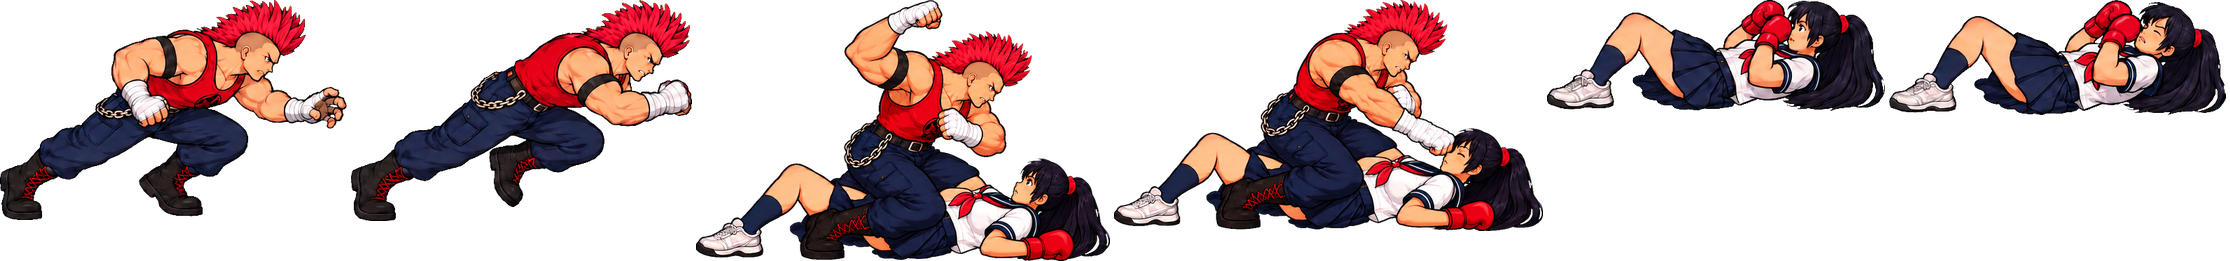
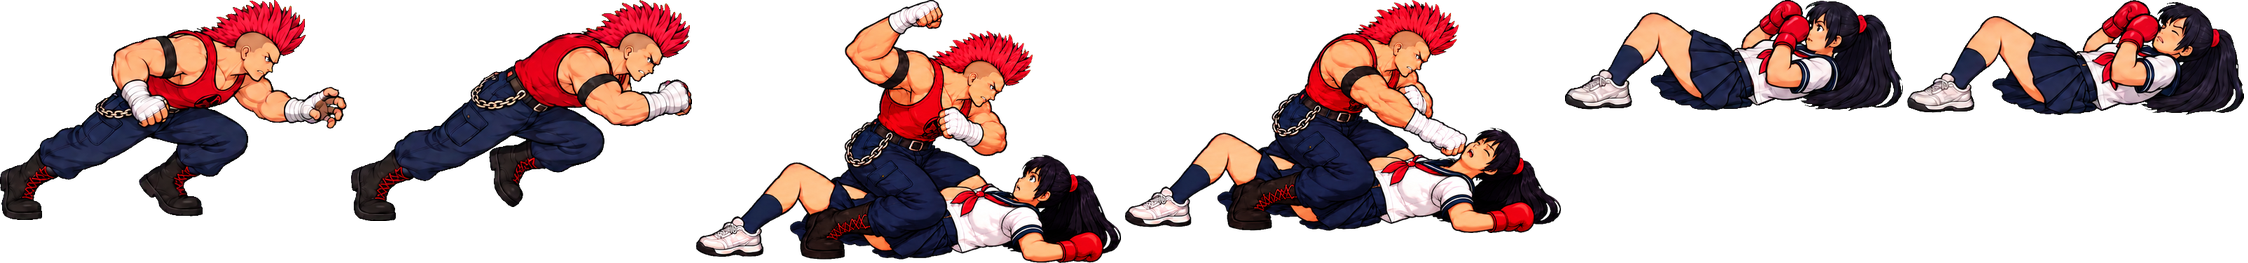
fix: mounted hand pose and frightened head recoil

diff --git a/assets/characters/mount_v1.js b/assets/characters/mount_v1.js
@@ -1,1 +1,1 @@
-window.SPR_MOUNT={"frames": [{"x": 0, "y": 0, "w": 347, "h": 220, "ax": 173.41, "ay": 220, "sourceBounds": [35, 186, 530, 500], "paletteWidth": 347}, {"x": 351, "y": 0, "w": 341, "h": 221, "ax": 170.61, "ay": 221, "sourceBounds": [519, 184, 1006, 500], "paletteWidth": 341}, {"x": 696, "y": 0, "w": 414, "h": 261, "ax": 223.6, "ay": 261, "sourceBounds": [49, 41, 1039, 664], "paletteWidth": 253}, {"x": 1114, "y": 0, "w": 429, "h": 231, "ax": 231.55, "ay": 231, "sourceBounds": [1100, 116, 2125, 668], "paletteWidth": 262}, {"x": 1547, "y": 0, "w": 338, "h": 111, "ax": 169.2, "ay": 111, "sourceBounds": [541, 763, 1024, 921], "paletteWidth": 0}, {"x": 1889, "y": 0, "w": 337, "h": 115, "ax": 168.5, "ay": 115, "sourceBounds": [1039, 758, 1520, 922], "paletteWidth": 0}]};
+window.SPR_MOUNT={"frames": [{"x": 0, "y": 0, "w": 347, "h": 220, "ax": 173.41, "ay": 220, "sourceBounds": [35, 186, 530, 500], "paletteWidth": 347}, {"x": 351, "y": 0, "w": 341, "h": 221, "ax": 170.61, "ay": 221, "sourceBounds": [519, 184, 1006, 500], "paletteWidth": 341}, {"x": 696, "y": 0, "w": 425, "h": 263, "ax": 224.07, "ay": 263, "sourceBounds": [48, 41, 1063, 670], "paletteWidth": 259}, {"x": 1125, "y": 0, "w": 436, "h": 233, "ax": 238.71, "ay": 233, "sourceBounds": [1099, 114, 2141, 670], "paletteWidth": 266}, {"x": 1565, "y": 0, "w": 338, "h": 111, "ax": 169.2, "ay": 111, "sourceBounds": [541, 763, 1024, 921], "paletteWidth": 0}, {"x": 1907, "y": 0, "w": 337, "h": 115, "ax": 168.5, "ay": 115, "sourceBounds": [1039, 758, 1520, 922], "paletteWidth": 0}]};

diff --git a/street-angel.html b/street-angel.html
@@ -9,7 +9,7 @@
 <script src="enemy-restraint.js?v=9"></script>
 <script src="enemy-flanking.js?v=1"></script>
 <script src="enemy-mount.js?v=1"></script>
-<script src="assets/characters/mount_v1.js?v=3"></script>
+<script src="assets/characters/mount_v1.js?v=4"></script>
 <script src="assets/characters/aoi_assist_v1.js"></script>
 <script src="assets/characters/thug_assist_v1.js?v=2"></script>
 <script src="assets/characters/yankee_assist_v1.js?v=2"></script>
@@ -621,7 +621,7 @@ MOUNT_SPRITE.img.onload=()=>{
     MOUNT_SPRITE.palettes.push(c);
   }
 };
-MOUNT_SPRITE.img.src='assets/characters/mount_v1.png?v=3';
+MOUNT_SPRITE.img.src='assets/characters/mount_v1.png?v=4';
 function drawMount(e){
   if(!MOUNT_SPRITE.frames||!MOUNT_SPRITE.img.complete||!MOUNT_SPRITE.img.naturalWidth)return false;
   if(e.state==='mounting')return true; // Its linked player draws the paired pose once.

diff --git a/tools/pack_mount_sheet.py b/tools/pack_mount_sheet.py
@@ -13,17 +13,25 @@ ROOT=Path(__file__).resolve().parents[1]
 def main():
     source=ROOT/'source_art/character-v2/mount-source.png'
     poses=extract_poses(Image.open(source),3,2,'red')
-    arm_source=ROOT/'source_art/character-v2/mount-no-guard-v3-source.png'
+    arm_source=ROOT/'source_art/character-v2/mount-recoil-v4-source.png'
     arm_poses=extract_poses(Image.open(arm_source),2,1,'red')
-    # One shared scale for both corrected poses; keep the original world size.
-    pair_scale=poses[2][0].height/arm_poses[0][0].height
+    reference_source=arm_source.parent/'mount-no-guard-v3-source.png'
+    reference=extract_poses(Image.open(reference_source),2,1,'red')
+    # Keep body size and registration independent of moving hands/head crop bounds.
+    pair_scale=poses[2][0].height/reference[0][0].height
+    cell_width=Image.open(arm_source).width/2
+    anchor_x=reference[0][2][0]+reference[0][0].width*.54
+    ground=max(bounds[3] for _,_,bounds in arm_poses)
     for index,(im,ax,bounds) in enumerate(arm_poses):
+        padded=Image.new('RGBA',(im.width,ground-bounds[1]),(0,0,0,0))
+        padded.paste(im,(0,0))
+        im=padded
         im=im.resize((round(im.width*pair_scale),round(im.height*pair_scale)),Image.Resampling.LANCZOS)
-        poses[index+2]=(im,ax*pair_scale,bounds)
+        poses[index+2]=(im,(anchor_x-(bounds[0]-index*cell_width))*pair_scale,bounds)
     group=[]
-    for index,(im,_,bounds) in enumerate(poses):
+    for index,(im,ax,bounds) in enumerate(poses):
         # Torso anchor rather than foot anchor for horizontal and paired poses.
-        group.append((im,im.width*(.54 if index in (2,3) else .5),bounds))
+        group.append((im,ax if index in (2,3) else im.width*.5,bounds))
     atlas,frames,scale=pack(group,0,round(group[0][0].height*.70))
     for i,f in enumerate(frames):
         # Paired frames: only this left region contains thug reds; never recolor Aoi.
@@ -33,6 +41,7 @@ def main():
     output.with_suffix('.js').write_text('window.SPR_MOUNT='+json.dumps({'frames':frames})+';\n',encoding='utf-8')
     report={'sourceSha256':hashlib.sha256(source.read_bytes()).hexdigest(),
             'armSourceSha256':hashlib.sha256(arm_source.read_bytes()).hexdigest(),
+            'registrationSourceSha256':hashlib.sha256(reference_source.read_bytes()).hexdigest(),
             'pairScale':pair_scale,
             'atlasSha256':hashlib.sha256(output.read_bytes()).hexdigest(),
             'sourceSize':list(Image.open(source).size),'frameCount':6,'scale':scale,

diff --git a/tests/test_mount_assets.py b/tests/test_mount_assets.py
@@ -11,7 +11,9 @@ class MountAssetsTests(unittest.TestCase):
         atlas=root/'assets/characters/mount_v1.png'
         report=json.loads((atlas.parent/'mount-validation.json').read_text())
         self.assertEqual(report['sourceSha256'],hashlib.sha256(source.read_bytes()).hexdigest())
-        self.assertEqual(report['armSourceSha256'],hashlib.sha256((source.parent/'mount-no-guard-v3-source.png').read_bytes()).hexdigest())
+        self.assertEqual(report['armSourceSha256'],hashlib.sha256((source.parent/'mount-recoil-v4-source.png').read_bytes()).hexdigest())
+        self.assertEqual(report['registrationSourceSha256'],hashlib.sha256((source.parent/'mount-no-guard-v3-source.png').read_bytes()).hexdigest())
+        self.assertAlmostEqual(report['pairScale'],0.5971107544141252)
         self.assertEqual(report['atlasSha256'],hashlib.sha256(atlas.read_bytes()).hexdigest())
         im=Image.open(atlas)
         self.assertEqual(im.mode,'RGBA');self.assertEqual(im.getextrema()[3],(0,255))
@@ -25,3 +27,9 @@ class MountAssetsTests(unittest.TestCase):
             self.assertTrue(0<=f['paletteWidth']<=f['w'])
         self.assertEqual(frames[4]['paletteWidth'],0)
         self.assertEqual(frames[5]['paletteWidth'],0)
+        # Cropped head/hand motion must not move the pair's world anchor.
+        with Image.open(source.parent/'mount-recoil-v4-source.png') as paired_source:
+            cell_width=paired_source.width/2
+        anchors=[f['ax']+(f['sourceBounds'][0]-i*cell_width)*report['pairScale']*report['scale']
+                 for i,f in enumerate(frames[2:4])]
+        self.assertAlmostEqual(anchors[0],anchors[1],delta=.02)
